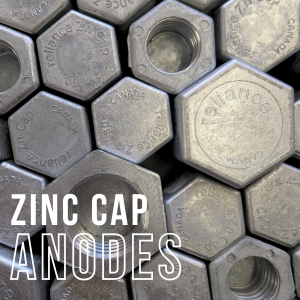
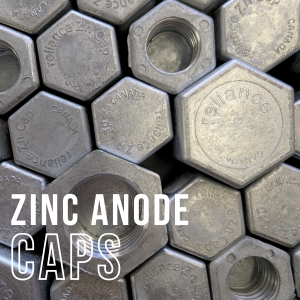
changes zncap home pic and adjusts formatting of headers

Changed region(s): [[0.03, 0.63, 0.63, 0.96]]

diff --git a/pages/index.js b/pages/index.js
@@ -46,7 +46,8 @@ export default function Home() {
           </p>
         </div> */}
 
-        <h2 className="mt-[2rem] mb-[10]">Our Products</h2>
+        <h2 className="mt-[10vw] lg:mt-[5vw]">Our Products</h2>
+
         <div className="grid grid-cols-1 lg:grid-cols-3">
           <Link href="/products/commercial">
             <div className="relative">
@@ -54,7 +55,7 @@ export default function Home() {
                 src="/home/comm-1.png"
                 width="300"
                 height="300"
-                className="mx-[10vw] my-[10vw] lg:mx-[5vw] lg:my-[10vw] rounded-xl"
+                className="mx-[10vw] my-[10vw] lg:mx-[5vw] lg:my-[5vw] rounded-xl"
               />
               <div className="flex justify-center w-full h-full items-center absolute top-0 left-0 right-0 bottom-0 rounded-xl group">
                 <p className="hidden group-hover:block">
@@ -62,7 +63,7 @@ export default function Home() {
                     src="/home/comm-2.png"
                 width="300"
                 height="300"
-                    className="mx-[10vw] my-[10vw] lg:mx-[5vw] lg:my-[10vw] rounded-xl"
+                    className="mx-[10vw] my-[10vw] lg:mx-[5vw] lg:my-[5vw] rounded-xl"
                   />
                 </p>
               </div>
@@ -75,7 +76,7 @@ export default function Home() {
                 src="/home/pc-1.png"
                 width="300"
                 height="300"
-                className="mx-[10vw] my-[10vw] lg:mx-[5vw] lg:my-[10vw] rounded-xl"
+                className="mx-[10vw] my-[10vw] lg:mx-[5vw] lg:my-[5vw] rounded-xl"
               />
               <div className="flex justify-center w-full h-full items-center absolute top-0 left-0 right-0 bottom-0 rounded-xl group">
                 <p className="hidden group-hover:block">
@@ -83,7 +84,7 @@ export default function Home() {
                     src="/home/pc-2.png"
                 width="300"
                 height="300"
-                    className="mx-[10vw] my-[10vw] lg:mx-[5vw] lg:my-[10vw] rounded-xl"
+                    className="mx-[10vw] my-[10vw] lg:mx-[5vw] lg:my-[5vw] rounded-xl"
                   />
                 </p>
               </div>
@@ -96,7 +97,7 @@ export default function Home() {
                 src="/home/zncap-1.png"
                 width="300"
                 height="300"
-                className="mx-[10vw] my-[10vw] lg:mx-[5vw] lg:my-[10vw] rounded-xl"
+                className="mx-[10vw] my-[10vw] lg:mx-[5vw] lg:my-[5vw] rounded-xl"
               />
               <div className="flex justify-center w-full h-full items-center absolute top-0 left-0 right-0 bottom-0 rounded-xl group">
                 <p className="hidden group-hover:block">
@@ -104,7 +105,7 @@ export default function Home() {
                     src="/home/zncap-2.png"
                 width="300"
                 height="300"
-                    className="mx-[10vw] my-[10vw] lg:mx-[5vw] lg:my-[10vw] rounded-xl"
+                    className="mx-[10vw] my-[10vw] lg:mx-[5vw] lg:my-[5vw] rounded-xl"
                   />
                 </p>
               </div>
